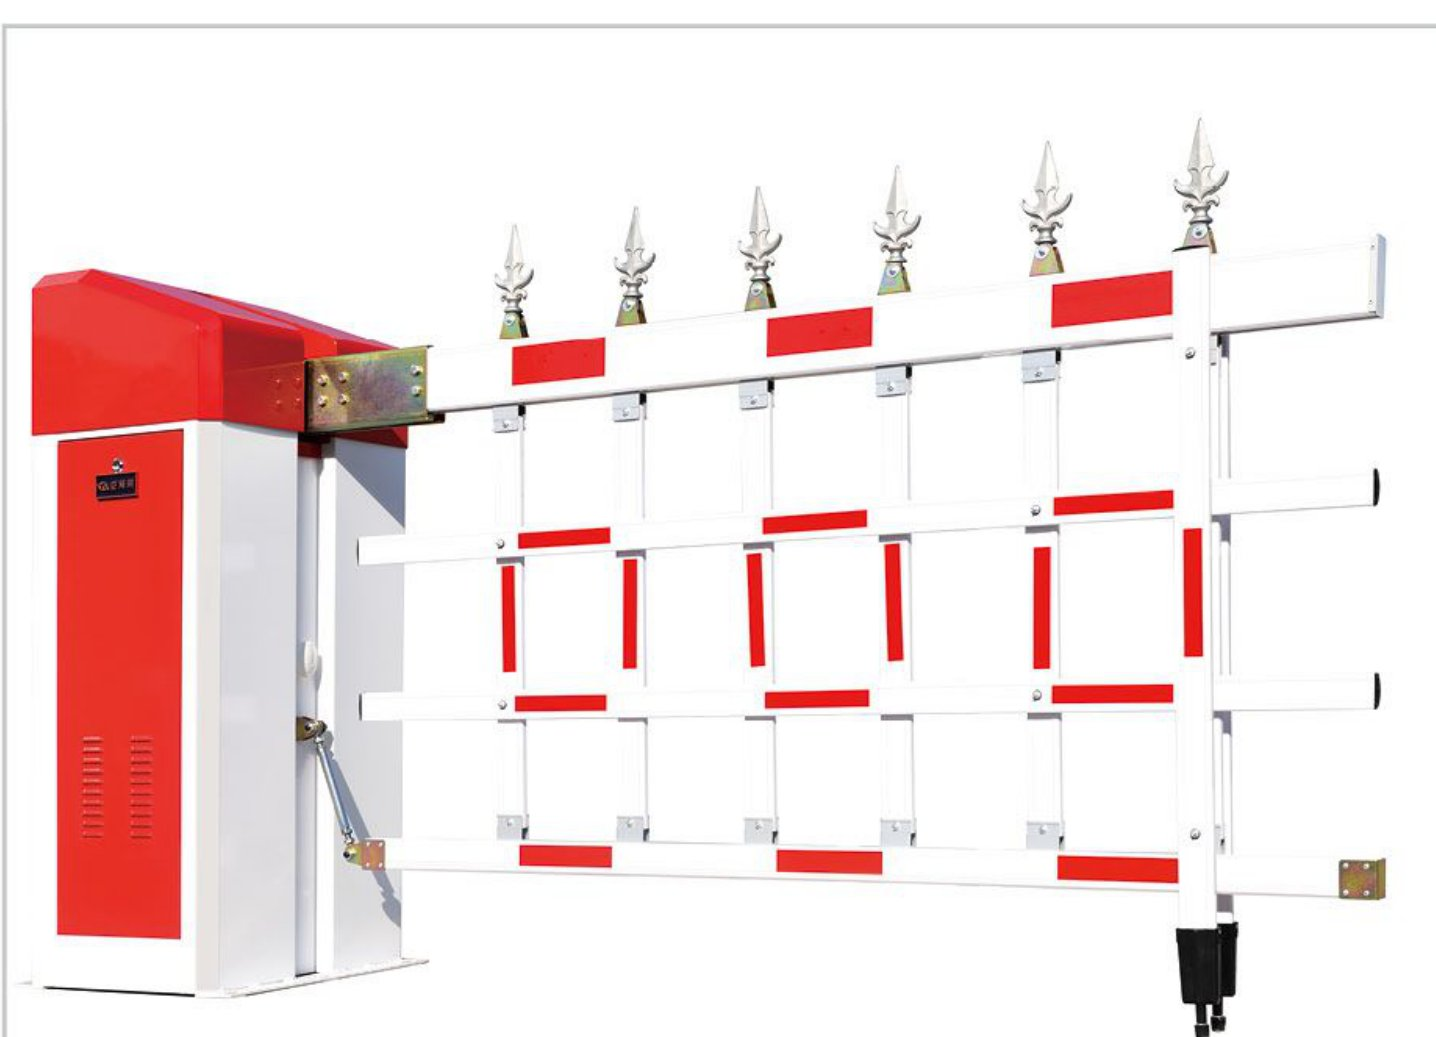
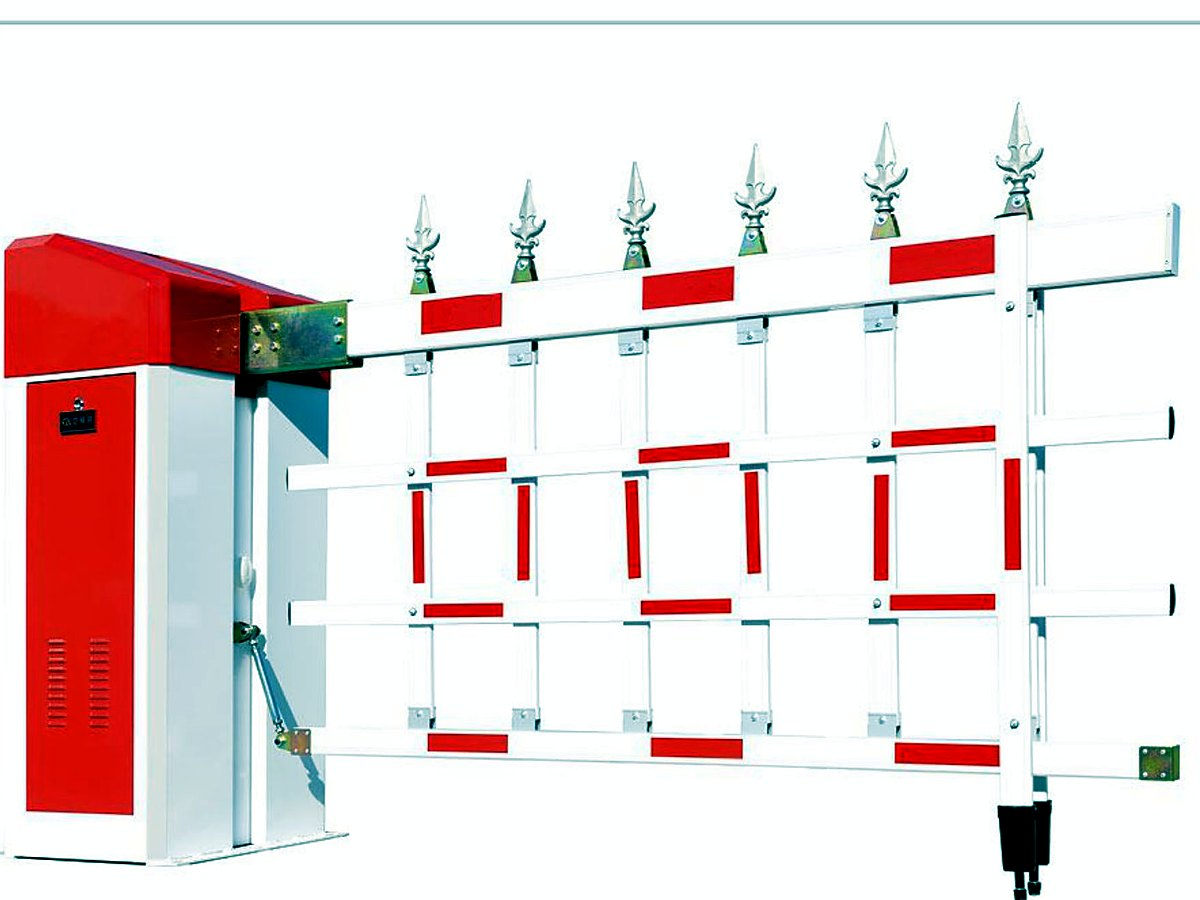
P1: 产品图统一4:3并调色(快速门改康明斯实拍) + 案例图提亮 + 新增合作流程5步

diff --git a/index.html b/index.html
@@ -237,6 +237,14 @@ footer p + p { margin-top: 6px; }
   .hero-visual .cap { text-align: center; }
 }
 
+
+/* ===== Process ===== */
+.process-grid { display: grid; grid-template-columns: repeat(auto-fit, minmax(200px, 1fr)); gap: 20px; }
+.process-step { background: #fff; border: 1px solid #eee; border-radius: 8px; padding: 24px 20px; position: relative; }
+.process-step .n { font-size: 13px; font-weight: 800; color: #d4380d; letter-spacing: 1px; margin-bottom: 10px; }
+.process-step h3 { font-size: 16px; color: #1a3a5c; margin-bottom: 8px; }
+.process-step p { font-size: 13.5px; color: #666; line-height: 1.75; }
+
 /* ===== Mobile ===== */
 @media (max-width: 768px) {
   .hero h1 { font-size: 28px; }
@@ -248,6 +256,7 @@ footer p + p { margin-top: 6px; }
   .industry-grid { grid-template-columns: 1fr; }
   .faq-grid { grid-template-columns: 1fr; }
   .nav-burger { display: block; }
+  .process-grid { grid-template-columns: 1fr; }
   nav .links { display: none; position: absolute; top: 100%; left: 0; right: 0; background: #fff; flex-direction: column; gap: 2px; padding: 10px 20px 16px; box-shadow: 0 10px 18px rgba(0,0,0,0.08); }
   nav .links li { padding: 8px 0; border-bottom: 1px solid #f2f2f2; }
   nav .links li:last-child { border-bottom: none; }
@@ -336,7 +345,7 @@ footer p + p { margin-top: 6px; }
     <div class="products-grid">
 
       <div class="product-card">
-        <img src="images/products/rapid-door.jpg" alt="快速门（康明斯项目实拍）— 重庆立高门业" width="1600" height="900" loading="lazy">
+        <img src="images/products/rapid-door.jpg" alt="快速门（康明斯项目实拍）— 重庆立高门业" width="1200" height="900" loading="lazy">
         <div class="info">
           <h3>快速门</h3>
           <p>PVC软帘快速门，1.2-1.5m/s高速启闭，防尘保温隔断</p>
@@ -346,7 +355,7 @@ footer p + p { margin-top: 6px; }
       </div>
 
       <div class="product-card">
-        <img src="images/products/hard-rapid-door.jpg" alt="硬质快速门（成都益海项目实拍）— 重庆立高门业" width="900" height="1600" loading="lazy">
+        <img src="images/products/hard-rapid-door.jpg" alt="硬质快速门（成都益海项目实拍）— 重庆立高门业" width="1200" height="900" loading="lazy">
         <div class="info">
           <h3>硬质快速门</h3>
           <p>滚筒式/螺旋式，铝合金门板，抗风等级高，密封性强</p>
@@ -356,7 +365,7 @@ footer p + p { margin-top: 6px; }
       </div>
 
       <div class="product-card">
-        <img src="images/products/stacking-door.jpg" alt="堆积门 — 重庆立高门业" width="1442" height="1080" loading="lazy">
+        <img src="images/products/stacking-door.jpg" alt="堆积门 — 重庆立高门业" width="1200" height="900" loading="lazy">
         <div class="info">
           <h3>堆积门</h3>
           <p>超大洞口专用，多层帘布，抗风能力强，适合高频率通行</p>
@@ -366,7 +375,7 @@ footer p + p { margin-top: 6px; }
       </div>
 
       <div class="product-card">
-        <img src="images/products/lifting-door.jpg" alt="工业滑升门 — 重庆立高门业" width="1080" height="1440" loading="lazy">
+        <img src="images/products/lifting-door.jpg" alt="工业滑升门 — 重庆立高门业" width="1200" height="900" loading="lazy">
         <div class="info">
           <h3>工业滑升门</h3>
           <p>保温夹芯板门体，含柔性提升门、透明提升门、车库提升门</p>
@@ -376,7 +385,7 @@ footer p + p { margin-top: 6px; }
       </div>
 
       <div class="product-card">
-        <img src="images/products/roller-door.jpg" alt="卷帘门 — 重庆立高门业" width="960" height="1280" loading="lazy">
+        <img src="images/products/roller-door.jpg" alt="卷帘门 — 重庆立高门业" width="1200" height="900" loading="lazy">
         <div class="info">
           <h3>卷帘门</h3>
           <p>含防火卷帘、保温卷帘、管状卷帘、多孔卷帘、车库卷帘</p>
@@ -386,7 +395,7 @@ footer p + p { margin-top: 6px; }
       </div>
 
       <div class="product-card">
-        <img src="images/products/swing-door.jpg" alt="平开门 — 重庆立高门业" width="800" height="600" loading="lazy">
+        <img src="images/products/swing-door.jpg" alt="平开门 — 重庆立高门业" width="1200" height="900" loading="lazy">
         <div class="info">
           <h3>平开门</h3>
           <p>不锈钢/夹芯板材质，适配人行及小型车行通道</p>
@@ -396,7 +405,7 @@ footer p + p { margin-top: 6px; }
       </div>
 
       <div class="product-card">
-        <img src="images/products/sliding-door.jpg" alt="推拉门/平移门 — 重庆立高门业" width="500" height="498" loading="lazy">
+        <img src="images/products/sliding-door.jpg" alt="推拉门/平移门 — 重庆立高门业" width="1200" height="900" loading="lazy">
         <div class="info">
           <h3>推拉门/平移门</h3>
           <p>含钢质隔音平移门（配防爆电机），适合大洞口重型门</p>
@@ -406,7 +415,7 @@ footer p + p { margin-top: 6px; }
       </div>
 
       <div class="product-card">
-        <img src="images/products/folding-door.jpg" alt="折叠门 — 重庆立高门业" width="1050" height="1400" loading="lazy">
+        <img src="images/products/folding-door.jpg" alt="折叠门 — 重庆立高门业" width="1200" height="900" loading="lazy">
         <div class="info">
           <h3>折叠门</h3>
           <p>电动钢质折叠门，节省安装空间，适合窄边大洞口</p>
@@ -416,7 +425,7 @@ footer p + p { margin-top: 6px; }
       </div>
 
       <div class="product-card">
-        <img src="images/products/telescopic-door.jpg" alt="伸缩门 — 重庆立高门业" width="1600" height="681" loading="lazy">
+        <img src="images/products/telescopic-door.jpg" alt="伸缩门 — 重庆立高门业" width="1200" height="900" loading="lazy">
         <div class="info">
           <h3>伸缩门</h3>
           <p>电动伸缩门，铝合金/不锈钢材质，企业大门标配</p>
@@ -426,7 +435,7 @@ footer p + p { margin-top: 6px; }
       </div>
 
       <div class="product-card">
-        <img src="images/products/barrier-gate.jpg" alt="道闸/空降闸 — 重庆立高门业" width="1436" height="1037" loading="lazy">
+        <img src="images/products/barrier-gate.jpg" alt="道闸/空降闸 — 重庆立高门业" width="1200" height="900" loading="lazy">
         <div class="info">
           <h3>道闸</h3>
           <p>含广告道闸、空降闸，支持车牌识别系统联动</p>
@@ -436,7 +445,7 @@ footer p + p { margin-top: 6px; }
       </div>
 
       <div class="product-card">
-        <img src="images/products/suspended-door.jpg" alt="悬浮门（北大医药项目）— 重庆立高门业" width="1600" height="1199" loading="lazy">
+        <img src="images/products/suspended-door.jpg" alt="悬浮门（北大医药项目）— 重庆立高门业" width="1200" height="900" loading="lazy">
         <div class="info">
           <h3>悬浮门</h3>
           <p>无轨悬浮运行，超宽洞口，高抗风性能，运行平稳</p>
@@ -446,7 +455,7 @@ footer p + p { margin-top: 6px; }
       </div>
 
       <div class="product-card">
-        <img src="images/products/steel-gate.jpg" alt="钢大门（广安项目实拍）— 重庆立高门业" width="1440" height="1080" loading="lazy">
+        <img src="images/products/steel-gate.jpg" alt="钢大门（广安项目实拍）— 重庆立高门业" width="1200" height="900" loading="lazy">
         <div class="info">
           <h3>钢大门</h3>
           <p>重型钢质大门，高承重、高耐久，适合工业厂房</p>
@@ -456,7 +465,7 @@ footer p + p { margin-top: 6px; }
       </div>
 
       <div class="product-card">
-        <img src="images/products/soundproof-door.jpg" alt="隔音门（华夏江津增压器项目）— 重庆立高门业" width="720" height="1280" loading="lazy">
+        <img src="images/products/soundproof-door.jpg" alt="隔音门（华夏江津增压器项目）— 重庆立高门业" width="1200" height="900" loading="lazy">
         <div class="info">
           <h3>隔音门</h3>
           <p>专业隔音降噪设计，适配增压器测试间等高噪环境</p>
@@ -466,7 +475,7 @@ footer p + p { margin-top: 6px; }
       </div>
 
       <div class="product-card">
-        <img src="images/products/cold-storage-door.jpg" alt="冷库门 — 重庆立高门业" width="620" height="551" loading="lazy">
+        <img src="images/products/cold-storage-door.jpg" alt="冷库门 — 重庆立高门业" width="1200" height="900" loading="lazy">
         <div class="info">
           <h3>冷库门</h3>
           <p>低温环境专用，保温密封，适配冷链仓储场景</p>
@@ -476,7 +485,7 @@ footer p + p { margin-top: 6px; }
       </div>
 
       <div class="product-card">
-        <img src="images/products/crash-door.jpg" alt="防撞门 — 重庆立高门业" width="620" height="551" loading="lazy">
+        <img src="images/products/crash-door.jpg" alt="防撞门 — 重庆立高门业" width="1200" height="900" loading="lazy">
         <div class="info">
           <h3>防撞门</h3>
           <p>叉车通道专用，耐冲击自动复位，降低运维成本</p>
@@ -588,7 +597,7 @@ footer p + p { margin-top: 6px; }
         <div class="cap"><h3>成都顶津食品</h3><p>快速门 · 2020</p></div>
       </div>
       <div class="project-card">
-        <img src="images/projects/beida-pharma.jpg" alt="北大医药悬浮门项目 — 重庆立高门业" width="1049" height="1400" loading="lazy">
+        <img src="images/projects/beida-pharma.jpg" style="object-position:center 28%" alt="北大医药悬浮门项目 — 重庆立高门业" width="1049" height="1400" loading="lazy">
         <div class="cap"><h3>北大医药</h3><p>悬浮门</p></div>
       </div>
       <div class="project-card">
@@ -600,13 +609,28 @@ footer p + p { margin-top: 6px; }
         <div class="cap"><h3>仙女山消防队</h3><p>工业提升门 · 2018</p></div>
       </div>
       <div class="project-card">
-        <img src="images/projects/huaxia.jpg" alt="华夏江津增压器隔音门项目 — 重庆立高门业" width="720" height="1280" loading="lazy">
+        <img src="images/projects/huaxia.jpg" style="object-position:center 42%" alt="华夏江津增压器隔音门项目 — 重庆立高门业" width="720" height="1280" loading="lazy">
         <div class="cap"><h3>华夏江津增压器</h3><p>隔音门</p></div>
       </div>
       <div class="project-card">
         <img src="images/projects/xianya.jpg" alt="西安欣雅堆积门项目 — 重庆立高门业" width="787" height="1400" loading="lazy">
         <div class="cap"><h3>西安欣雅</h3><p>堆积门 · 2017</p></div>
       </div>
+    </div>
+  </div>
+</section>
+
+
+<!-- ===== Process ===== -->
+<section id="process">
+  <div class="inner">
+    <div class="section-h"><h2>合作流程</h2><p>自有团队全流程负责，勘测到售后不转包</p></div>
+    <div class="process-grid">
+      <div class="process-step"><div class="n">STEP 01</div><h3>现场勘测</h3><p>上门测量洞口尺寸，确认使用场景、开启频率与现场条件</p></div>
+      <div class="process-step"><div class="n">STEP 02</div><h3>方案报价</h3><p>按门型、材质与电机配置出具方案和明细报价</p></div>
+      <div class="process-step"><div class="n">STEP 03</div><h3>生产制造</h3><p>自有车间生产，帘布、门板与控制系统自主配套</p></div>
+      <div class="process-step"><div class="n">STEP 04</div><h3>安装调试</h3><p>自有安装队进场，调试限位、安全保护与设备联动</p></div>
+      <div class="process-step"><div class="n">STEP 05</div><h3>售后维保</h3><p>响应维修与易损件更换，提供长期技术支持</p></div>
     </div>
   </div>
 </section>
